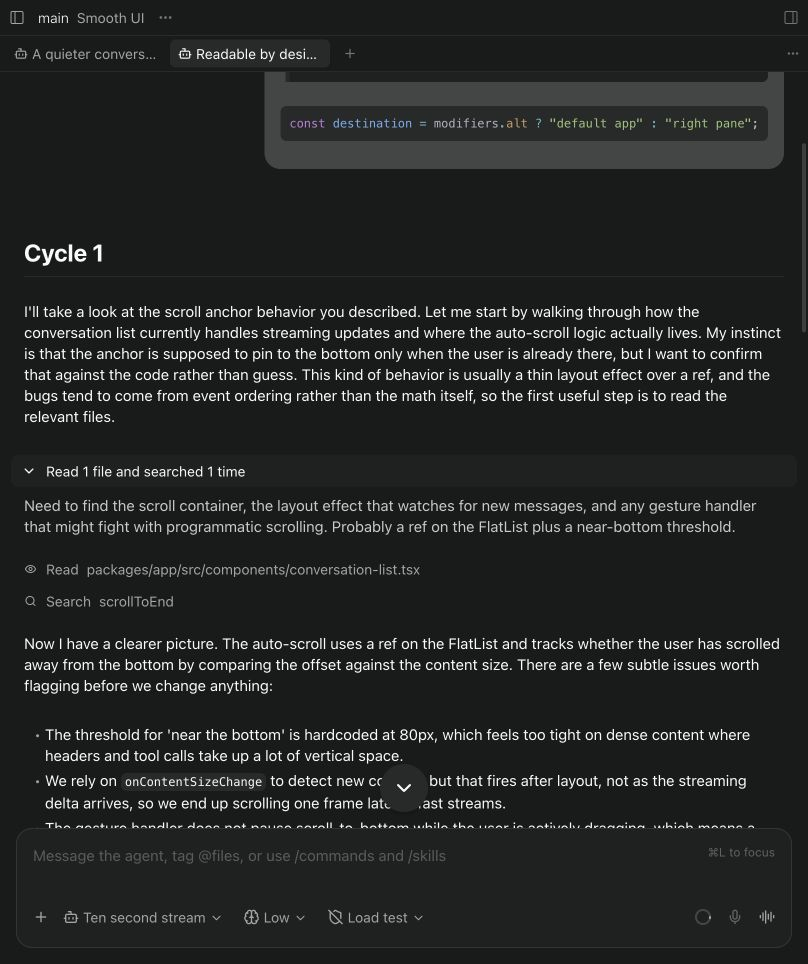
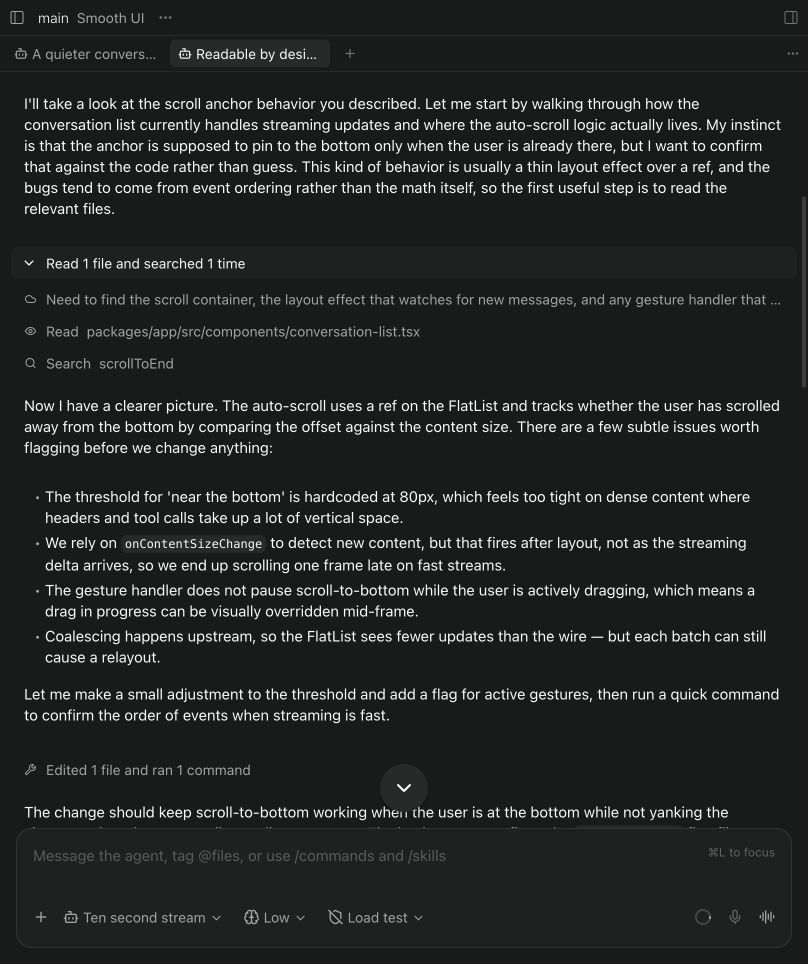
Use cloud reasoning rows with details and support Chinese emphasis

diff --git a/packages/app/src/agent-stream/view.tsx b/packages/app/src/agent-stream/view.tsx
@@ -25,11 +25,12 @@ import { StyleSheet, withUnistyles } from "react-native-unistyles";
 import { MAX_CONTENT_WIDTH, useIsCompactFormFactor } from "@/constants/layout";
 import { useMutation } from "@tanstack/react-query";
 import Animated, { FadeIn, FadeOut } from "react-native-reanimated";
-import { Check, ChevronDown, X } from "lucide-react-native";
+import { Check, ChevronDown, Cloud, X } from "lucide-react-native";
 import { buildWorkspaceTabPersistenceKey } from "@/workspace-tabs/model";
 import { openExplorerSidebarView } from "@/workspace-tabs/explorer-sidebar";
 import {
   AssistantMessage,
+  ExpandableBadge,
   SpeakMessage,
   UserMessage,
   Notification,
@@ -1294,8 +1295,7 @@ interface ThoughtSlotProps {
   client?: DaemonClient | null;
 }
 
-// Reasoning shares the assistant markdown path so it stays selectable, file-aware,
-// and paced without borrowing the expandable tool-call presentation.
+// Use the same row and disclosure as tools; provider reasoning remains Markdown inside.
 function ThoughtSlot({
   itemId,
   text,
@@ -1305,16 +1305,42 @@ function ThoughtSlot({
   serverId,
   client,
 }: ThoughtSlotProps) {
+  const { t } = useTranslation();
+  const [expanded, setExpanded] = useState(false);
+  const hasDetails = text.trim().length > 0;
+  const heading = text
+    .trim()
+    .split(/\r?\n/, 1)[0]
+    ?.replace(/^#{1,6}\s+/, "")
+    .replace(/[*_`]/g, "");
+  const label =
+    heading ||
+    t(status === "ready" ? "toolCallGroup.thought" : "toolCallGroup.thinking");
   return (
-    <AssistantMessage
-      occurrenceKey={`thought:${itemId}`}
-      message={text}
-      timestamp={timestamp}
-      workspaceRoot={workspaceRoot}
-      serverId={serverId}
-      client={client}
-      phase={status === "ready" ? "complete" : "streaming"}
-      variant="reasoning"
+    <ExpandableBadge
+      testID={`thought-${itemId}`}
+      label={label}
+      icon={Cloud}
+      isExpanded={expanded}
+      isLoading={status !== "ready"}
+      onToggle={hasDetails ? () => setExpanded((value) => !value) : undefined}
+      borderlessWhenExpanded
+      renderDetails={
+        hasDetails
+          ? () => (
+              <AssistantMessage
+                occurrenceKey={`thought:${itemId}`}
+                message={text}
+                timestamp={timestamp}
+                workspaceRoot={workspaceRoot}
+                serverId={serverId}
+                client={client}
+                phase={status === "ready" ? "complete" : "streaming"}
+                variant="reasoning"
+              />
+            )
+          : undefined
+      }
     />
   );
 }

diff --git a/packages/app/src/utils/markdown-parser.ts b/packages/app/src/utils/markdown-parser.ts
@@ -14,6 +14,43 @@ import MarkdownIt from "markdown-it";
  * disagree today: chat and the default renderer linkify bare URLs, plan cards
  * never have. Unifying that is a product decision on its own.
  */
-export function createMarkdownParser({ linkify }: { linkify: boolean }): MarkdownIt {
-  return new MarkdownIt({ html: false, linkify });
+export function createMarkdownParser({
+  linkify,
+}: {
+  linkify: boolean;
+}): MarkdownIt {
+  const parser = new MarkdownIt({ html: false, linkify });
+  // CJK prose often places strong markers against punctuation, or a space before
+  // the closing marker. Relax just those boundaries, then let markdown-it balance
+  // the delimiters normally. Code, escaped markers and the source stay untouched.
+  parser.inline.ruler.before("emphasis", "cjk_strong", (state, silent) => {
+    const start = state.pos;
+    if (silent || state.src.slice(start, start + 2) !== "**") return false;
+    const scanned = state.scanDelims(start, true);
+    if (scanned.length !== 2) return false;
+    let before = start - 1;
+    while (before >= 0 && /[ \t]/.test(state.src[before]!)) before--;
+    const cjk =
+      /[\p{Script=Han}\p{Script=Hiragana}\p{Script=Katakana}\p{Script=Hangul}\u3001-\u303f\uff01-\uff65]/u;
+    const canOpen = scanned.can_open || cjk.test(state.src[start + 2] ?? "");
+    const canClose = scanned.can_close || cjk.test(state.src[before] ?? "");
+    if (canOpen === scanned.can_open && canClose === scanned.can_close)
+      return false;
+    for (let index = 0; index < 2; index++) {
+      state.push("text", "", 0).content = "*";
+      const delimiter = {
+        marker: 0x2a,
+        length: 2,
+        jump: index,
+        token: state.tokens.length - 1,
+        end: -1,
+        open: canOpen,
+        close: canClose,
+      };
+      state.delimiters.push(delimiter);
+    }
+    state.pos += 2;
+    return true;
+  });
+  return parser;
 }

diff --git a/docs/features.md b/docs/features.md
@@ -34,8 +34,8 @@ The transcript reads as one continuous exchange:
   its own transcript block in Overview mode; expand the row to read it.
 - Markdown in reasoning and assistant messages uses the same readable renderer: headings, lists,
   emphasis, links, block quotes, tables, and fenced code remain visually distinct.
-- The summary names the tool activity. Inside, reasoning is rendered as Markdown and individual
-  tool entries remain available in their original order.
+- The summary names the tool activity. Inside, reasoning uses the same compact row as tools, with a cloud icon. Click the
+  reasoning row to read provider-supplied Markdown details; individual tool entries keep their order.
 - Reasoning and tool summaries keep their actual event order, so the compact view does not rewrite
   the conversation.
 - The activity summary has a text-gradient sweep while reasoning or tools are running.
@@ -44,7 +44,9 @@ The transcript reads as one continuous exchange:
   reduced-motion settings.
 
 Sent user messages render as Markdown after submission. The composer keeps the raw Markdown text
-so editing and copying preserve exactly what the user wrote.
+so editing and copying preserve exactly what the user wrote. Chinese strong emphasis also handles
+punctuation touching the markers and horizontal space before a closing marker, without rewriting
+source text, escaped markers, or code.
 
 ## Scope
 

diff --git a/docs/examples.md b/docs/examples.md
@@ -14,7 +14,8 @@ keep the Markdown source.
 ## Reasoning and adjacent tools
 
 Reasoning and adjacent tools collapse into a single summary. Expand it to see the Markdown
-reasoning and individual tool calls in chronological order; normal replies stay outside.
+reasoning rows and individual tool calls in chronological order; normal replies stay outside.
+Reasoning has a cloud icon and the same spacing as tools. Click its row to read the provider details.
 
 ![Collapsed activity summary](images/activity-collapsed.png)
 
@@ -43,3 +44,14 @@ const destination = modifiers.alt ? "default app" : "right pane";
 In a local desktop workspace, click a file link such as `[README](README.md)` in an assistant message:
 normal click follows Layout, Command/Ctrl locates it in the file manager, and Option/Alt opens it
 with the system default application. The mappings are configurable in Settings → Layout.
+
+## Chinese emphasis
+
+These also render as bold in sent messages and assistant replies:
+
+```markdown
+这是**中文。**后续说明。
+这段文字： **内容清晰。 **接着继续正文。
+```
+
+The source and code spans remain unchanged when copied.
